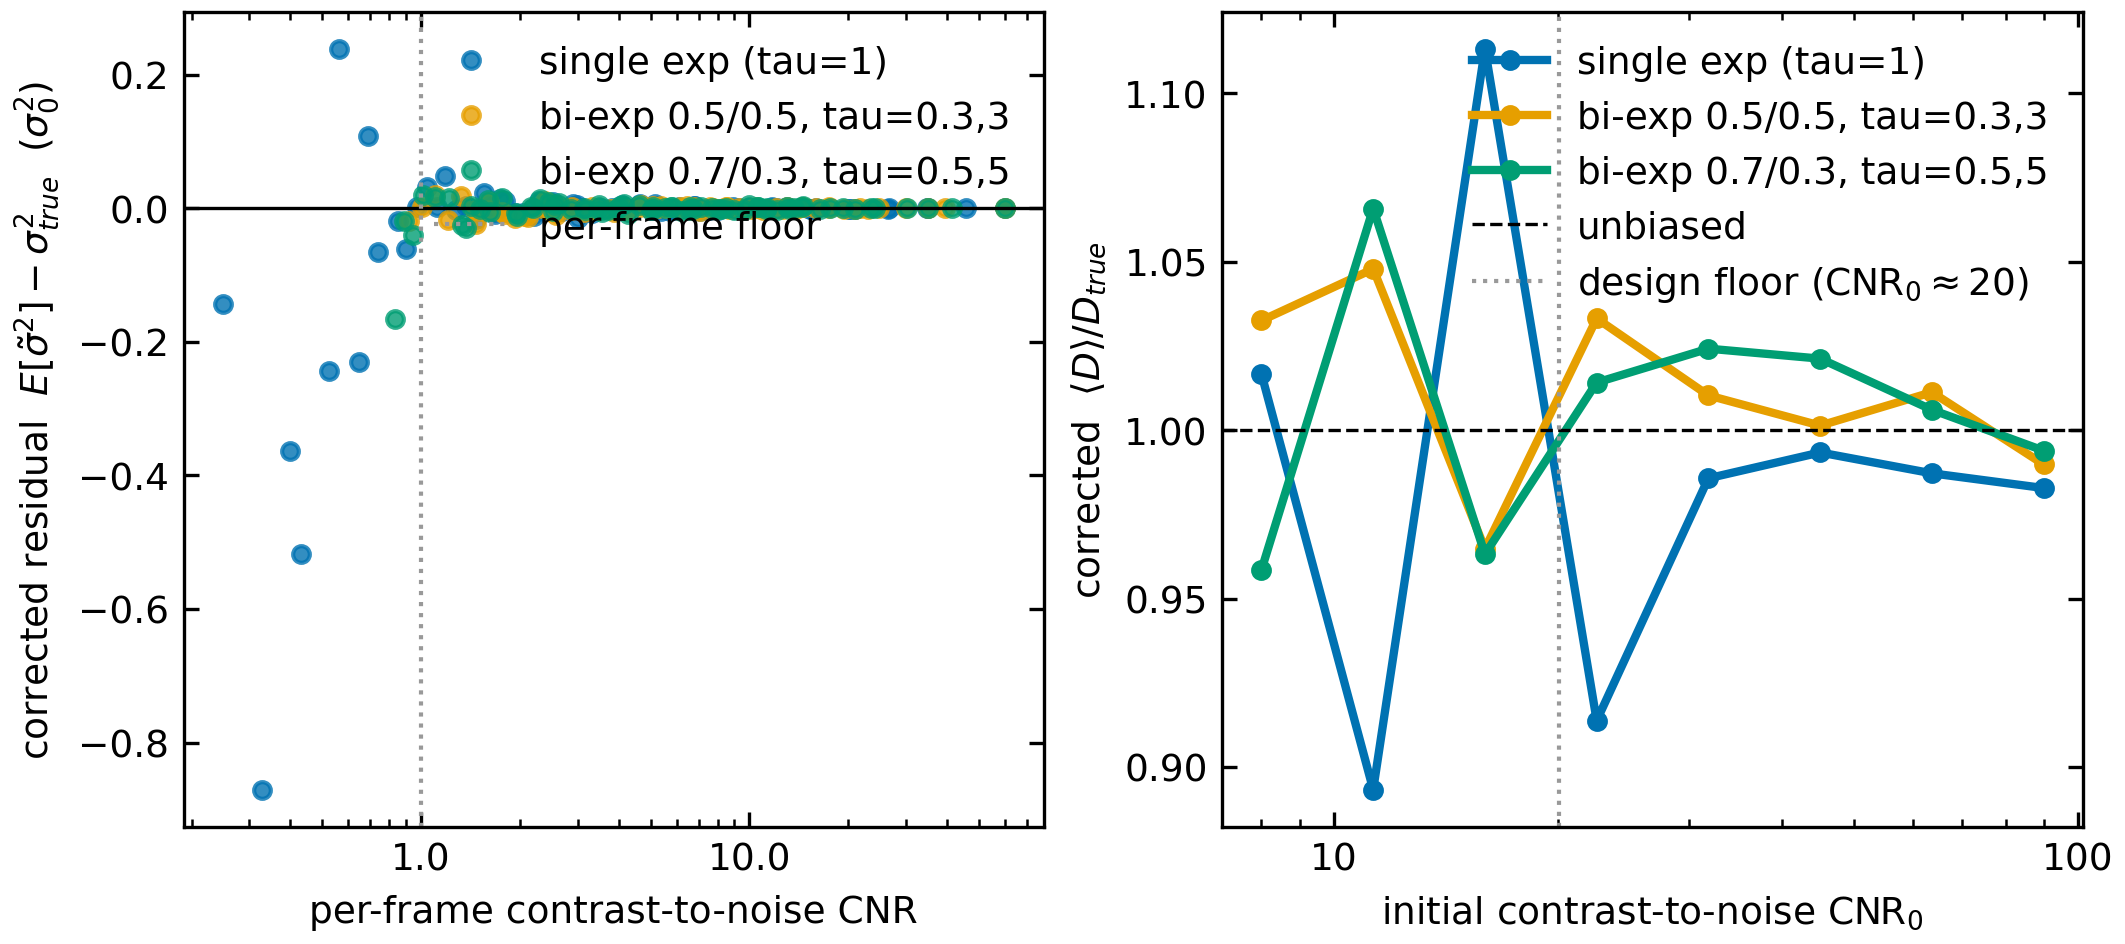
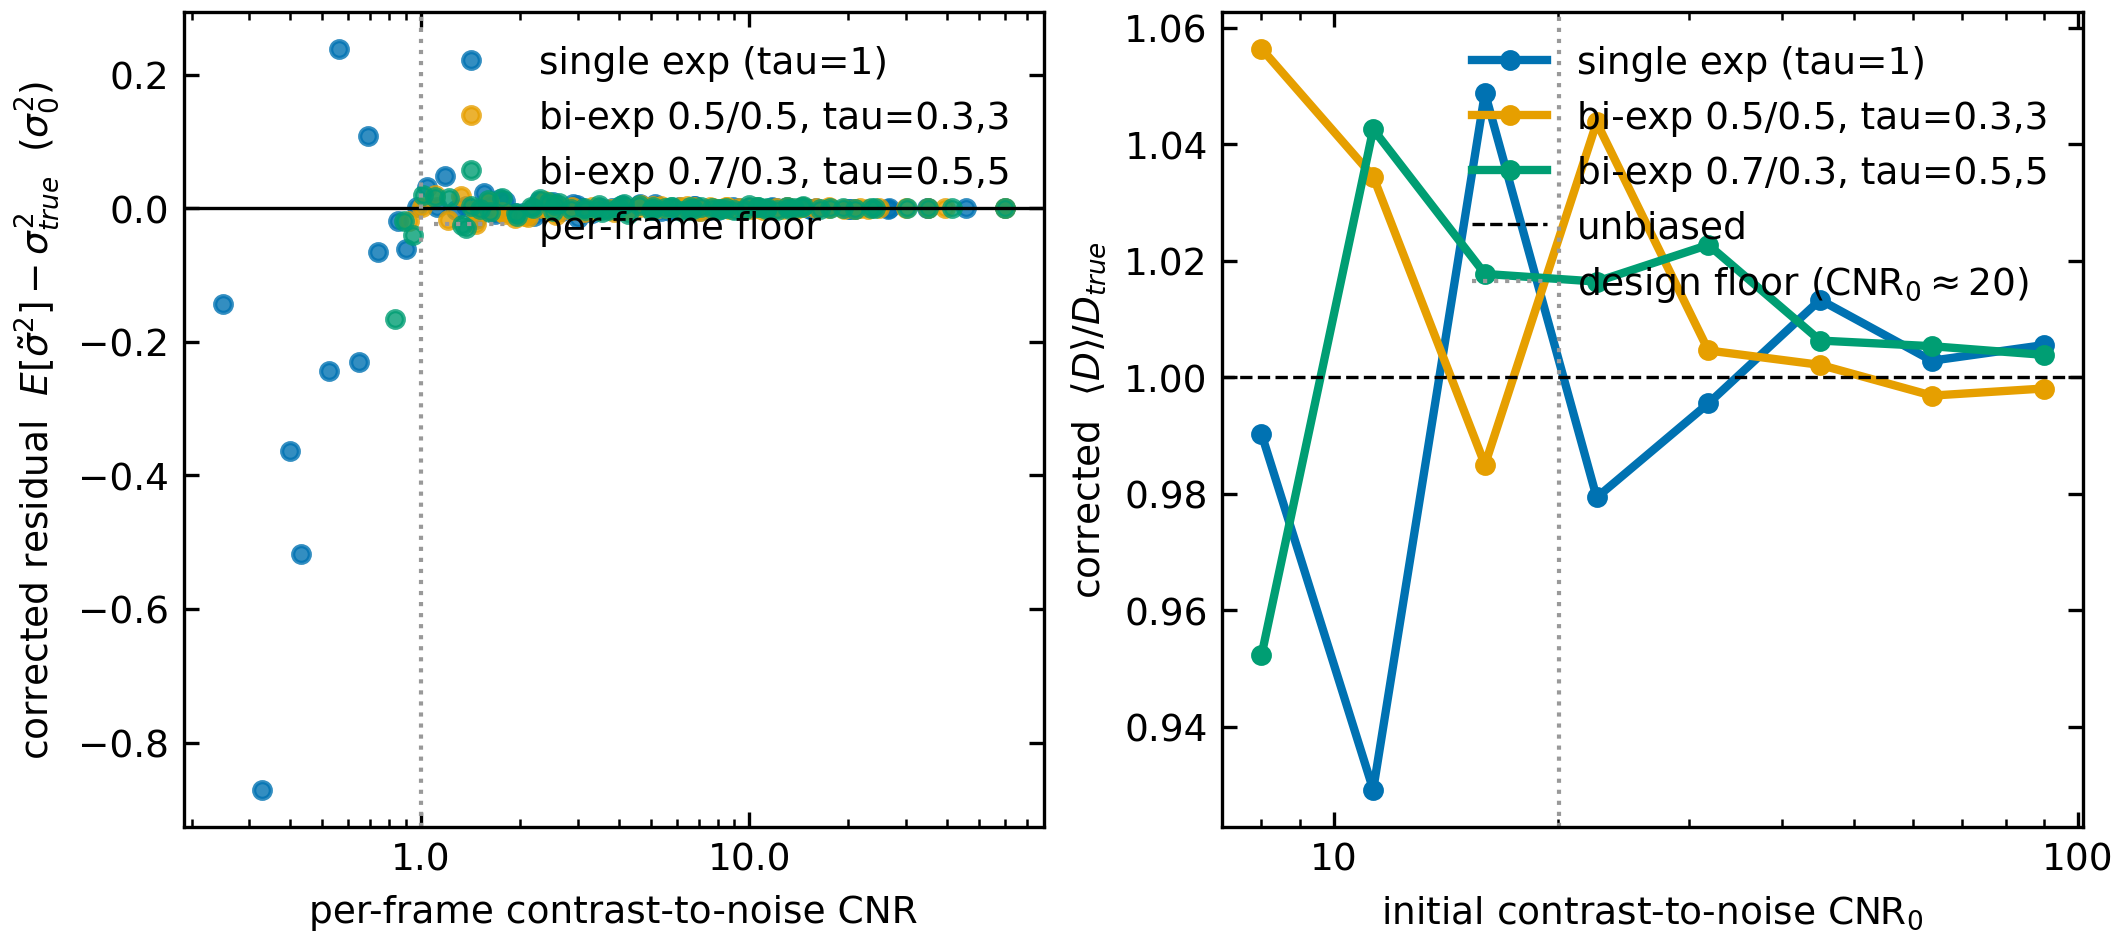
Regenerate the multi-exponential decay bed with the library weights (corrected D 0.93 to 1.06 for three decay laws) and name the calibration and seeds in the table

diff --git a/experiments/multiexp-decay/multiexp_decay.py b/experiments/multiexp-decay/multiexp_decay.py
@@ -137,6 +137,12 @@ def write_report(collapse: dict, dcurves: dict, deepest_at20: dict,
         "Multi-exponential decay: is the folded-normal correction invalidated?",
         "=" * 78,
         f"Fickian D = {D_FICKIAN} sigma0^2/tau; Gaussian fit; standard geometry.",
+        f"calibration: D-free (calibrate_d_free, D = 0), Gaussian, {len(CAL_CNR0)} "
+        f"CNR0 in [{CAL_CNR0[0]:g}, {CAL_CNR0[-1]:g}] x {N_RUNS_CAL} runs, seeds 1 + i "
+        f"(shared cache {CAL_PATH.name}).",
+        f"runs: {N_RUNS_DIAG} per CNR0 for the residual collapse, seeds 40000 + 5000 l "
+        f"+ 1000 k (decay law l, CNR0 index k); {N_RUNS_EVAL} per CNR0 for D "
+        "recovery, seeds 70000 + 5000 l + k.",
         "Claim: the correction keys on per-frame CNR, not the decay law.",
         "",
         "(1) Per-frame corrected residual collapses onto one curve vs per-frame "

diff --git a/docs/REPO_MAP.md b/docs/REPO_MAP.md
@@ -30,7 +30,7 @@ output/              regenerated run outputs and cached calibrations (not tracke
 | [coverage-interval](../experiments/coverage-interval/) | `coverage_check.py` | the covariance interval under-covers; report a bootstrap or profile interval | `coverage_check.png` |
 | [estimator-comparison](../experiments/estimator-comparison/) | `moment_estimator_failure.py`, `unbounded_fit_comparison.py` | removing the lower bound from the width fit does not substitute for the correction | `method_comparison.png`, `unbounded_fit_comparison.png` |
 | [subdiffusive-alpha](../experiments/subdiffusive-alpha/) | `subdiffusive_alpha.py` | signed corrected exponent error over CNR0 21-90 within 1.4 SE for alpha 0.6-1.0 and +0.049 ± 0.016 for 1.2 (SE without the calibration error); naive +0.024 to +0.081 (z 2.2-4.9) | `subdiffusive_alpha.png` |
-| [multiexp-decay](../experiments/multiexp-decay/) | `multiexp_decay.py` | the correction keys on per-frame CNR, not on the decay law | `multiexp_decay.png` |
+| [multiexp-decay](../experiments/multiexp-decay/) | `multiexp_decay.py` | the correction keys on per-frame CNR, not on the decay law (corrected D 0.93-1.06 of D_ref for three decay laws) | `multiexp_decay.png` |
 | [crlb-precision](../experiments/crlb-precision/) | `crlb.py`, `efficiency_check.py`, `render_crlb_panel.py` (+ `precision_limit.md`) | sqrt(CRLB)/D is several times D at low CNR; with the library's per-frame width-variance weighting the corrected D reaches 0.95-1.10 x sqrt(CRLB) from CNR0 21 (independent seeds per shape) | `poster_panel4_crlb.png` |
 | [closed-form-scaling](../experiments/closed-form-scaling/) | `linearity_test.py` | the mean bias follows the exact Fisher value 1.13/s^2 for s >= 10 (chi^2/dof 0.88-0.97 at four sigma0) | `linearity_test.png` |
 | [fisher-calibration](../experiments/fisher-calibration/) | `compare_calibrations.py`, `fisher_check.py`, `diagnose_criterion3.py` | pre-registered switch test: `calibrate_fisher` matches the raw path's accuracy with 0.20-0.32 of its calibration SE but fails the criterion on Voigt and p = 4 (predicted SE too small: per-draw GCV smoothing choice) and p = 1.5 (cells beyond 2 SE), so the raw path stays recommended; Fisher A matches Monte Carlo to 0.998-1.003 on four shapes; width scaling not established | `.txt` tables |

diff --git a/experiments/multiexp-decay/README.md b/experiments/multiexp-decay/README.md
@@ -26,8 +26,11 @@ snapshots are here.
 ## Key result + figure
 
 The per-frame corrected residual collapses onto one curve vs per-frame CNR
-(across-law spread <= 0.012 sigma0^2 for CNR >= 1); corrected `<D>/D_true` stays
-0.89-1.11 (the table prints no SE). The naive result is strongly decay-specific (19x at CNR0 = 8 for
+(across-law spread ≤ 0.012 σ₀² for CNR ≥ 1; the printed maximum of 0.162 σ₀²
+includes the 0.7 to 1.0 bin, below the floor); corrected ⟨D⟩/D_ref stays
+0.93 to 1.06 over CNR₀ 8 to 90 for all three decay laws (the table prints no
+SE). The D-free calibration is the shared `calibration_subdiffusive.npz`
+(Gaussian, 60 CNR₀ × 1500 runs), named with the seeds in the table header. The naive result is strongly decay-specific (19x at CNR0 = 8 for
 single-exponential vs ~1.3x bi-exponential), so any CNR0-indexed threshold is
 single-exponential-specific -- state thresholds in per-frame CNR. Figure:
 `multiexp_decay.png`; table `multiexp_decay.txt`.
